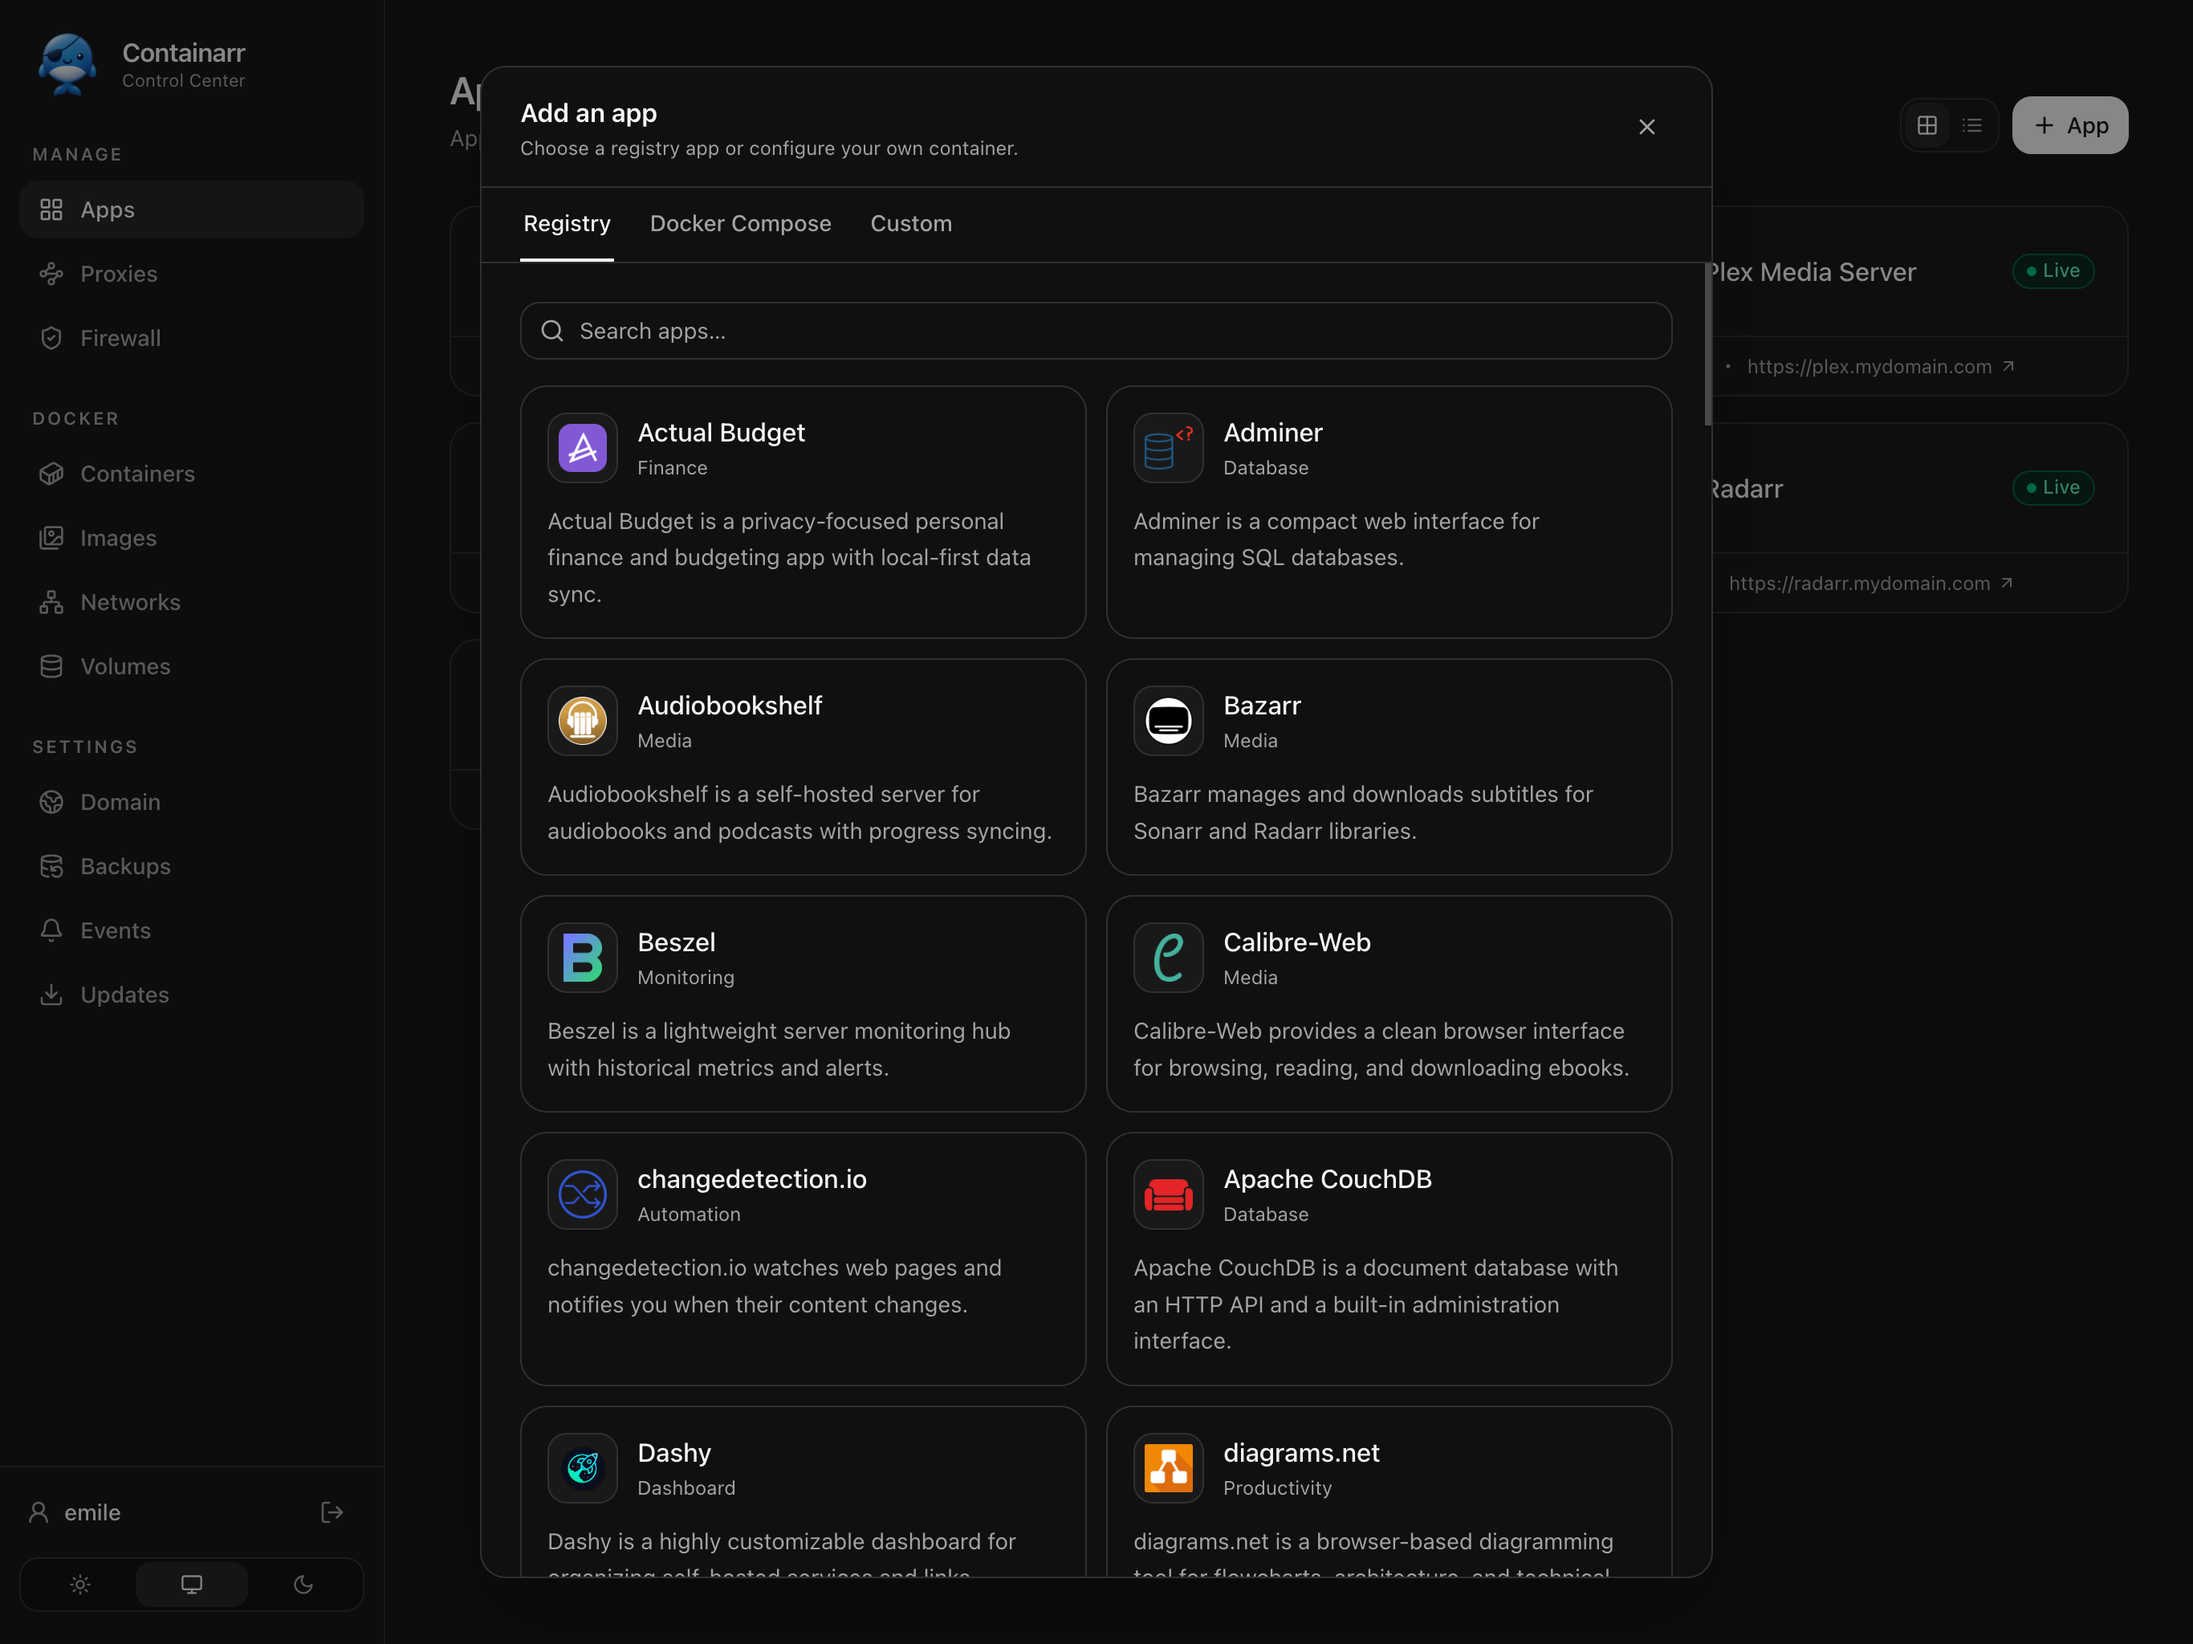
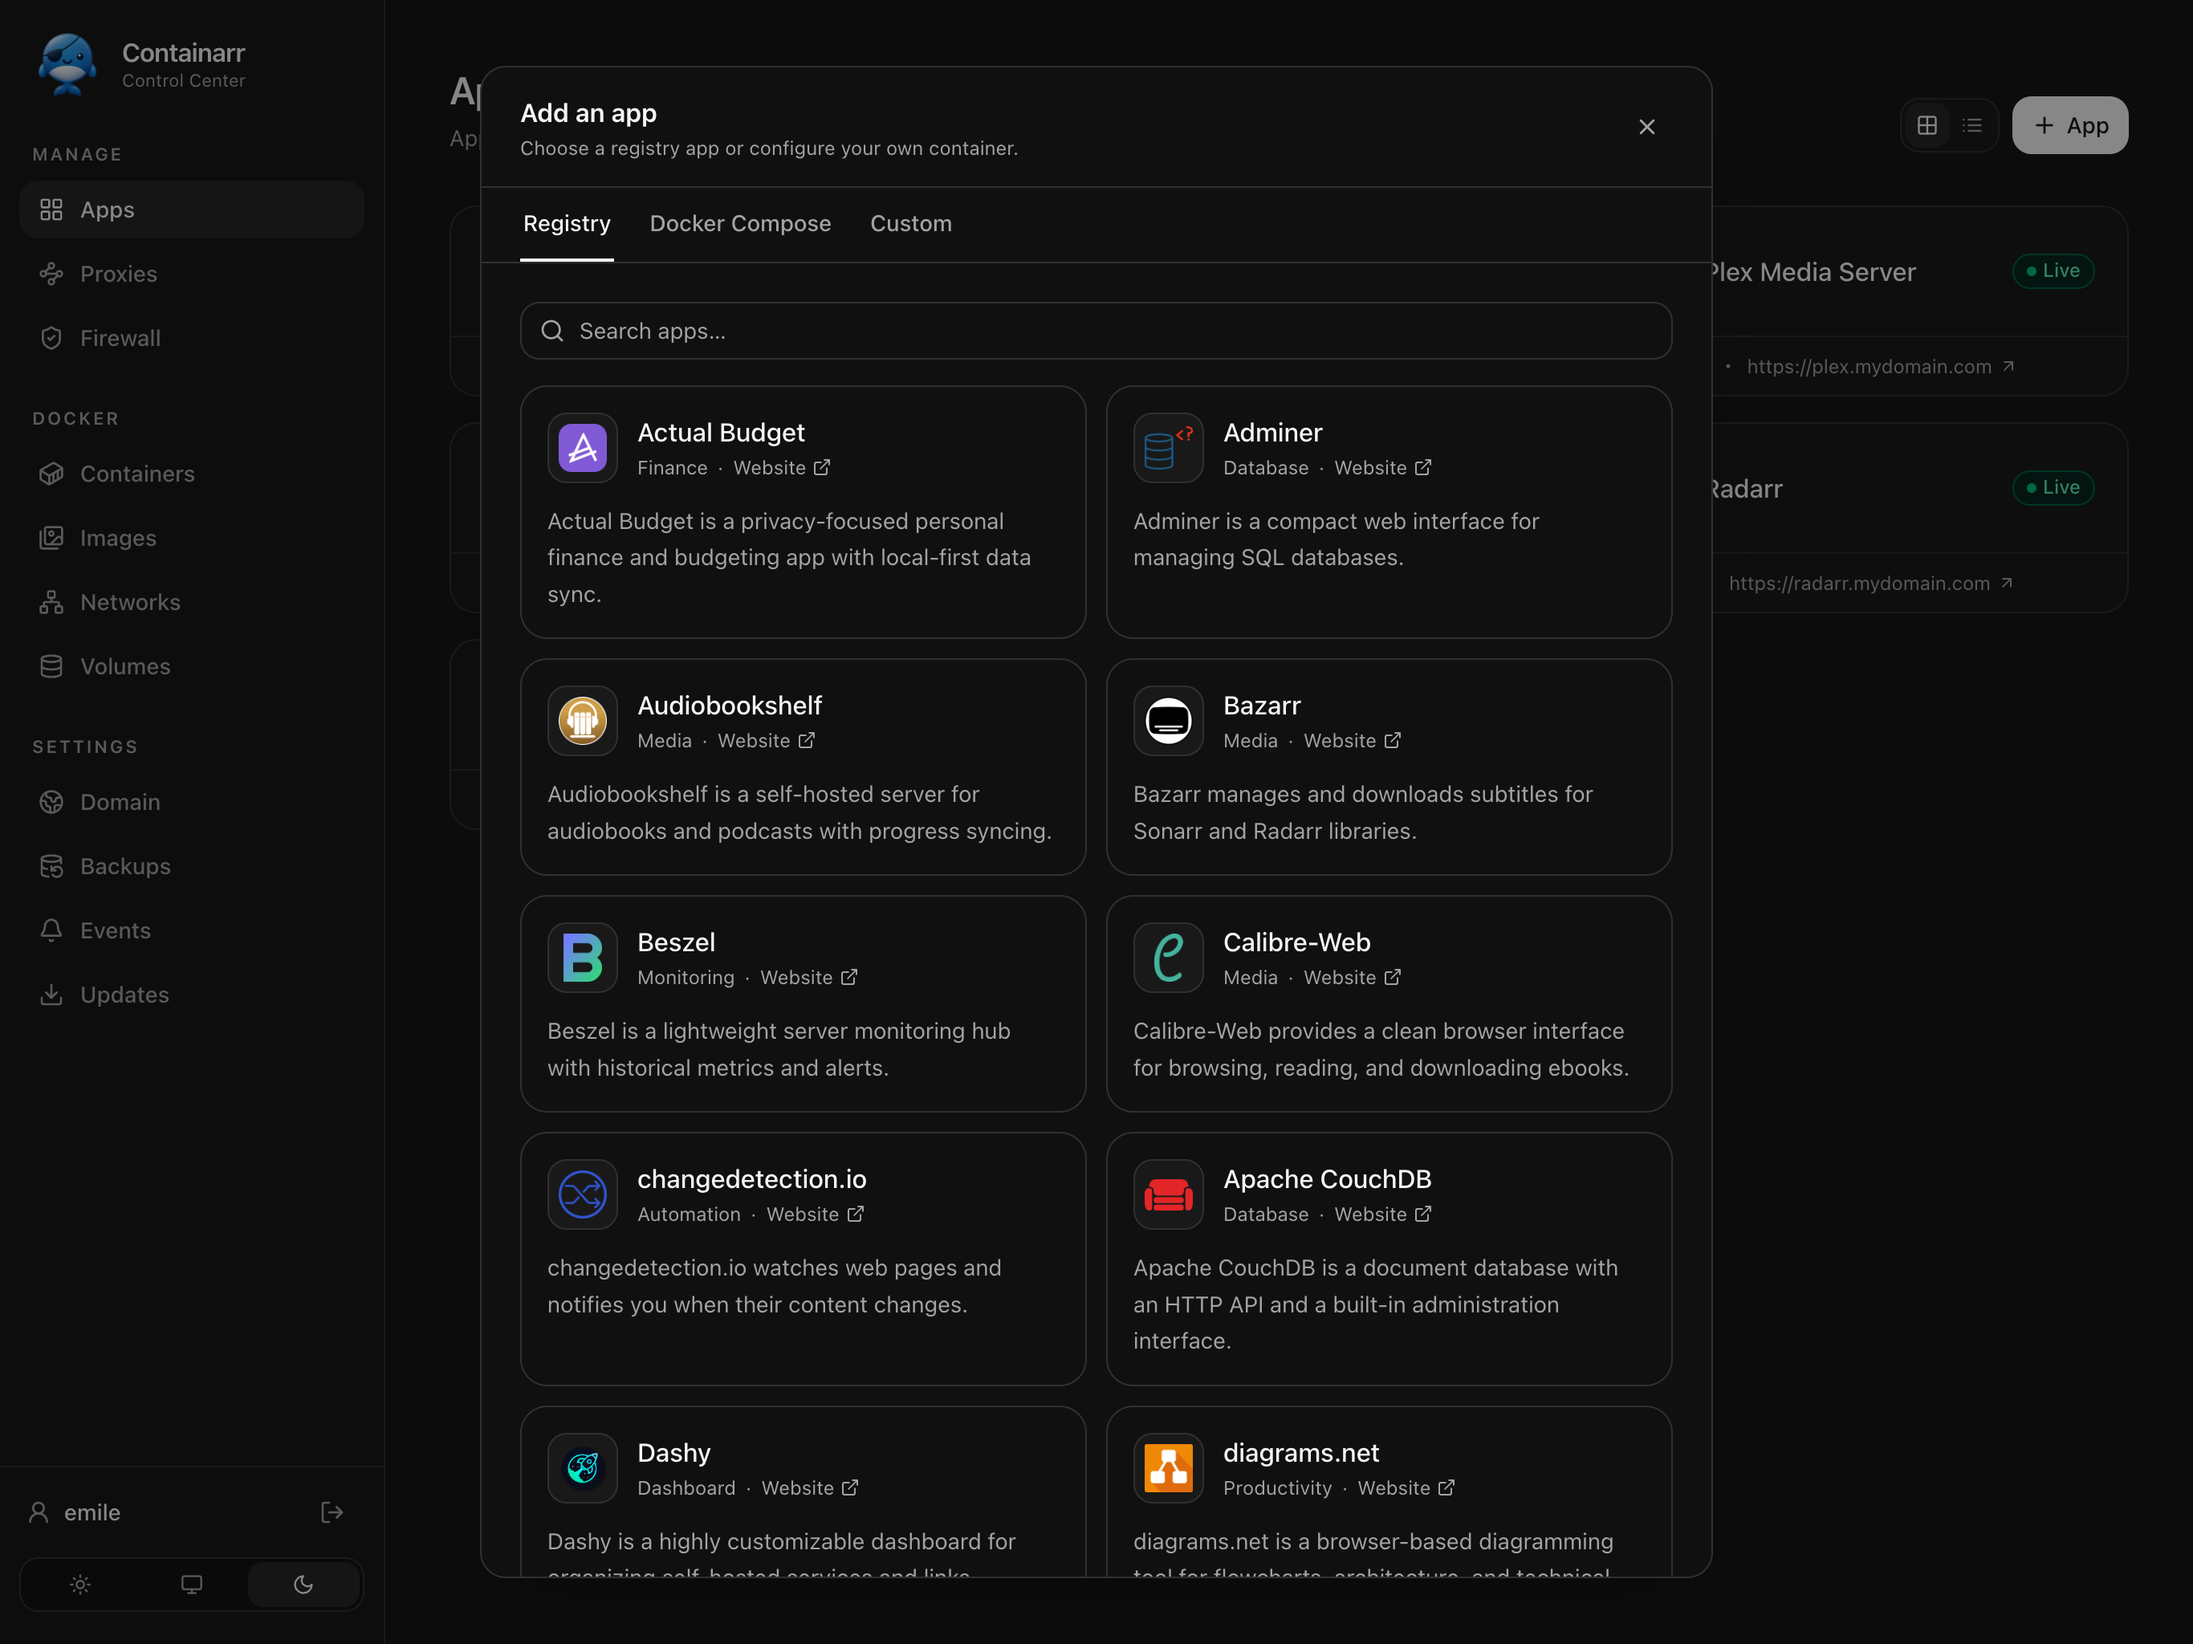
0.54.0: add project website links to the app browser

diff --git a/frontend/src/components/install-app-dialog.tsx b/frontend/src/components/install-app-dialog.tsx
@@ -8,6 +8,7 @@ import {
   ChevronDown,
   ChevronRight,
   DatabaseBackup,
+  ExternalLink,
   File,
   FileUp,
   Folder,
@@ -372,11 +373,9 @@ function InstallAppDialogContent({ onClose, onCreated }: DialogProps) {
                 {filteredRegistry.length ? (
                   <div className="grid gap-3 sm:grid-cols-2">
                     {filteredRegistry.map(([id, app]) => (
-                      <button
-                        type="button"
+                      <div
                         key={id}
-                        onClick={() => setSelected({ id, app })}
-                        className="flex flex-col rounded-xl border p-4 text-left transition-all hover:-translate-y-0.5 hover:border-foreground/25 hover:bg-muted/20 hover:shadow-sm focus-visible:outline-none focus-visible:ring-2 focus-visible:ring-ring"
+                        className="relative flex flex-col rounded-xl border p-4 transition-all hover:-translate-y-0.5 hover:border-foreground/25 hover:bg-muted/20 hover:shadow-sm"
                       >
                         <div className="flex items-start gap-3">
                           <AppLogo
@@ -385,16 +384,38 @@ function InstallAppDialogContent({ onClose, onCreated }: DialogProps) {
                             className="size-11"
                           />
                           <div className="min-w-0">
-                            <p className="font-medium">{app.name}</p>
-                            <p className="mt-0.5 text-xs text-muted-foreground">
-                              {app.category}
-                            </p>
+                            <button
+                              type="button"
+                              onClick={() => setSelected({ id, app })}
+                              className="text-left font-medium after:absolute after:inset-0 after:rounded-xl focus-visible:outline-none focus-visible:after:ring-2 focus-visible:after:ring-ring"
+                            >
+                              {app.name}
+                            </button>
+                            <div className="mt-0.5 flex flex-wrap items-center gap-x-1.5 text-xs text-muted-foreground">
+                              <span>{app.category}</span>
+                              {app.website && /^https?:\/\//i.test(app.website) && (
+                                <>
+                                  <span aria-hidden="true">·</span>
+                                  <a
+                                    href={app.website}
+                                    target="_blank"
+                                    rel="noopener noreferrer"
+                                    title={`Visit ${app.name} website`}
+                                    aria-label={`${app.name} project website (opens in a new tab)`}
+                                    className="relative inline-flex items-center gap-1 rounded-sm hover:text-foreground hover:underline focus-visible:outline-none focus-visible:ring-2 focus-visible:ring-ring"
+                                  >
+                                    Website
+                                    <ExternalLink className="size-3" aria-hidden="true" />
+                                  </a>
+                                </>
+                              )}
+                            </div>
                           </div>
                         </div>
                         <p className="mt-3 flex-1 text-sm leading-relaxed text-muted-foreground">
                           {app.description}
                         </p>
-                      </button>
+                      </div>
                     ))}
                   </div>
                 ) : (

diff --git a/CHANGELOG.md b/CHANGELOG.md
@@ -1,3 +1,8 @@
+# v0.54.0
+
+* Added project website links beside app categories in the New App registry browser, with an icon indicating they open in a new tab.
+* Changed the New App screenshot to show project website links.
+
 # v0.53.0
 
 * Removed automatic backups after configuration changes. Saving backup settings now starts a new interval without running a backup.
